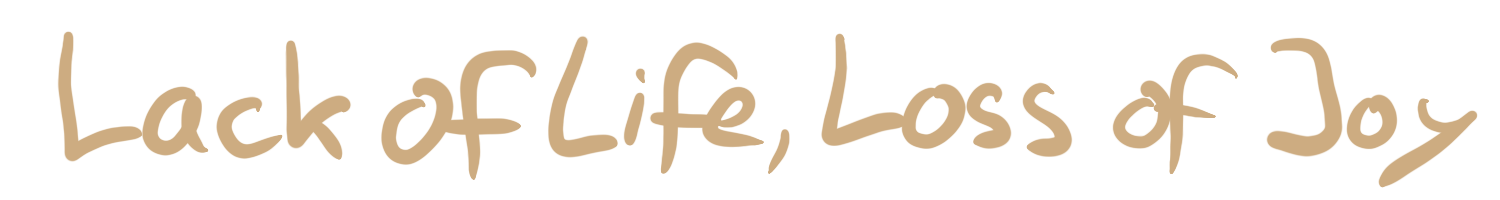
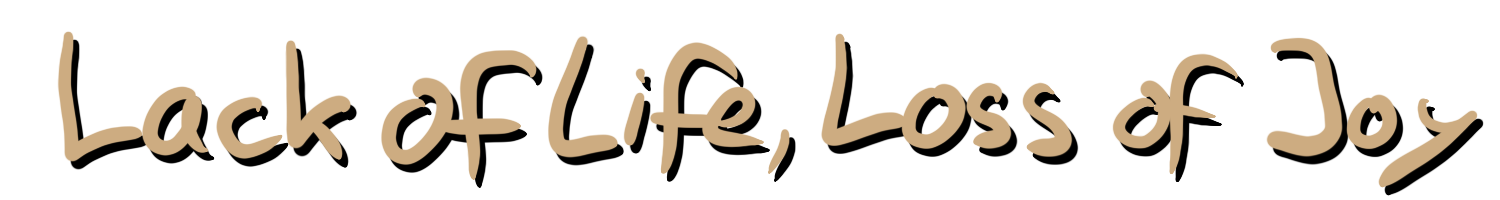
new images and small styling details

diff --git a/src/styles/global.css b/src/styles/global.css
@@ -1,12 +1,15 @@
 @import "https://unpkg.com/open-props";
 :root {
     --color-main-light: #00303f;
+    --color-main-light-transparent: hsl(194, 100%, 12%, 90%);
     --color-secondary-light: #cae4db;
+    --color-secondary-light-transparent: hsl(159, 33%, 84%, 90%);
     --color-bg-light: #f5f4f4;
-    --color-main-dark: ;
+    --color-bg-light-transparent: hsl(0deg, 4.76%, 95.9%, 90%);
     --color-font-light: white;
 
     --color-highlight: #cdac81;
+    --color-highlight-transparent: hsl(34, 43%, 65%, 90%);
 
     --font-sansserif: "Open Sans Variable", Helvetica, sans-serif;
     --font-serif: "Josefin Slab Variable", "Times New Roman", Times, serif;

diff --git a/src/content/config.ts b/src/content/config.ts
@@ -7,12 +7,9 @@ const blogCollection = defineCollection({
         description: z.string(),
         previewText: z.string(),
         publishDate: z.date(),
-        imgHeading: z.string(),
-        imgHeadingMobile: z.string(),
-        imgDoodle: z.string(),
-        imgDoodleMobile: z.string(),
-        imgDate: z.string(),
-        imgDateMobile: z.string(),
+        imgHeader: z.string(),
+        imgHeaderMobile: z.string(),
+        imgNotes: z.string(),
         imgCallToAction: z.string(),
         imgCallToActionHover: z.string(),
         imgCallToActionMobile: z.string(),

diff --git a/src/content/posts/lack-of-life-loss-of-joy.md b/src/content/posts/lack-of-life-loss-of-joy.md
@@ -4,15 +4,12 @@ title: Lack of Life, Loss of Joy
 description: A writer's personal and systemic perspective on the German film industry
 previewText: "<p>Life is simple when you are writing.</p><p>You sit down with pen and paper and laptop and then you just put one word down and another and another. Life is not simple when you are a writer, though. And it is unbearably difficult when you’re a talented screenwriter in Germany.</p><p>You see, we have it all. The funding, the education, the technical knowledge. We have a solid infrastructure and a social security net. We should be making great movies and sometimes we do.</p><p>But mostly we don’t.</p>"
 publishDate: 2024-06-23
-imgHeading: "/assets/lack-of-life-loss-of-joy/lack-of-life-loss-of-joy-header.png"
-imgHeadingMobile: "/assets/lack-of-life-loss-of-joy/lack-of-life-loss-of-joy-header-mobile.png"
-imgDoodle: "/assets/lack-of-life-loss-of-joy/lack-of-life-loss-of-joy-doodle.png"
-imgDoodleMobile: "/assets/lack-of-life-loss-of-joy/lack-of-life-loss-of-joy-doodle-mobile.png"
-imgDate: "/assets/lack-of-life-loss-of-joy/lack-of-life-loss-of-joy-date.png"
-imgDateMobile: "/assets/lack-of-life-loss-of-joy/lack-of-life-loss-of-joy-date-mobile.png"
-imgCallToAction: "/assets/lack-of-life-loss-of-joy/lack-of-life-loss-of-joy-call-to-action.png"
-imgCallToActionHover: "/assets/lack-of-life-loss-of-joy/lack-of-life-loss-of-joy-call-to-action-hover.png"
-imgCallToActionMobile: "/assets/lack-of-life-loss-of-joy/lack-of-life-loss-of-joy-call-to-action-mobile.png"
+imgHeader: "/assets/lack-of-life-loss-of-joy/lack-of-life-loss-of-joy-header.png"
+imgHeaderMobile: "/assets/lack-of-life-loss-of-joy/lack-of-life-loss-of-joy-header-mobile.png"
+imgNotes: "/assets/lack-of-life-loss-of-joy/lack-of-life-loss-of-joy-notes.png"
+imgCallToAction: "/assets/lack-of-life-loss-of-joy/lack-of-life-loss-of-joy-cta.png"
+imgCallToActionHover: "/assets/lack-of-life-loss-of-joy/lack-of-life-loss-of-joy-cta-hover.png"
+imgCallToActionMobile: "/assets/lack-of-life-loss-of-joy/lack-of-life-loss-of-joy-cta-mobile.png"
 ---
 
 Life is simple when you are writing.
@@ -27,7 +24,7 @@ Even worse, we don’t even make bad movies. Bad movies can make you feel _somet
 
 German movies lack life.
 
-In a movie narrative this dramatic realisation might have cost me my joy in writing. But in real life it didn’t. Instead the joy quietly quit on me. It slowly faded out and then one day it was gone. I was sitting in front of my laptop, trying to piece together movie ideas and I couldn’t. 
+In a movie narrative this dramatic realisation might have cost me my joy in writing. But in real life it didn’t. Instead the joy quietly quit on me. It slowly faded out and then one day it was gone. I was sitting in front of my laptop, trying to piece together movie ideas and I couldn’t.
 
 This was not the lack of success. Yes, it sucked that no one was interested in my ideas, no one wanted to pay me to write. But that’s not why I lost my joy. Because writing itself was always joyful for me, independent of the outcome. So even without success, even before success, I always had writing and my joy for it. And now I had even lost that.
 
@@ -39,19 +36,19 @@ Let’s start with acknowledging this: I am failing. A whole industry is failing
 
 This is difficult. Because acknowledging failure goes to the core of our identity. I have to give up being a successful writer, the German film industry has to give up making successful movies. We have to give up who we want to be and acknowledge that we might never get there.
 
-I have never been good at admitting failure. Additional to the privilege of being white, male and from a stable household I have the privilege of being good at stuff. 
+I have never been good at admitting failure. Additional to the privilege of being white, male and from a stable household I have the privilege of being good at stuff.
 
-I learned reading and writing at the age of four, I finished best of my class in school without much effort. I did fine in my physics bachelor’s degree, even though not being invested, and I got accepted at arguably one of the best film schools in the world on first try. I left film school with a decent, diverse portfolio of projects, written or even directed by me. 
+I learned reading and writing at the age of four, I finished best of my class in school without much effort. I did fine in my physics bachelor’s degree, even though not being invested, and I got accepted at arguably one of the best film schools in the world on first try. I left film school with a decent, diverse portfolio of projects, written or even directed by me.
 
 I had, or have, potential. I couldn’t fail. I was too good to fail. And yet I did.
 
-When the loss of joy hit me, I was already off-track. I was without a writing job for quite some time. It felt like I was running and still falling behind. Like I was sprinting at full speed in all the wrong directions. But, as every screenwriter knows, the next big project is only one great idea away. 
+When the loss of joy hit me, I was already off-track. I was without a writing job for quite some time. It felt like I was running and still falling behind. Like I was sprinting at full speed in all the wrong directions. But, as every screenwriter knows, the next big project is only one great idea away.
 
 Right?
 
-Right. So there I was, finally getting back on track. My agent told me she needed new ideas, so I wanted to create some fun one-pagers. Designing the layout myself, making it enjoyable to look at and easy to grasp the core of my idea. Maybe the stories wouldn’t sell but it would gain some attention and would put me back on the table as an interesting writer. 
+Right. So there I was, finally getting back on track. My agent told me she needed new ideas, so I wanted to create some fun one-pagers. Designing the layout myself, making it enjoyable to look at and easy to grasp the core of my idea. Maybe the stories wouldn’t sell but it would gain some attention and would put me back on the table as an interesting writer.
 
-Creating these documents was actually a pretty good plan. And yet I couldn’t do it. I was playing around with the page layout instead of working on the stories. And then I stopped doing that. I started feeling numb, then I started feeling anxious about feeling numb and then I started feeling numb again to not feel anxious anymore. 
+Creating these documents was actually a pretty good plan. And yet I couldn’t do it. I was playing around with the page layout instead of working on the stories. And then I stopped doing that. I started feeling numb, then I started feeling anxious about feeling numb and then I started feeling numb again to not feel anxious anymore.
 
 I was a bad writer. I was a bad artist.
 
@@ -63,9 +60,9 @@ I never asked myself: Why do I want this? What is success? Why am I afraid of fa
 
 And the market never told me: We don’t know what we want. We are afraid. We are failing and we don’t know why.
 
-This isn’t a new insight, a new problem. But everyone has a different answer. Everyone has someone else to blame. I am guilty of this myself. 
+This isn’t a new insight, a new problem. But everyone has a different answer. Everyone has someone else to blame. I am guilty of this myself.
 
-I blamed the producers, the network executives, the directors. Other writers who accept bad conditions instead of saying no. I blamed the markets and capitalism. Netflix and Amazon and Tiktok and Disney and how they turn art into content. And all of it is true. 
+I blamed the producers, the network executives, the directors. Other writers who accept bad conditions instead of saying no. I blamed the markets and capitalism. Netflix and Amazon and Tiktok and Disney and how they turn art into content. And all of it is true.
 
 Yet none of it goes deep enough. And blaming others doesn’t make the pain go away. It makes it worse. Joyless thoughts create joyless minds and joyless people.
 
@@ -75,13 +72,13 @@ So, what is the life I am talking about? Let’s distract ourselves from our emo
 
 ## What I talk about when I talk about life
 
-Alexander was an architect. That is what he thought about and wrote about. And yet “The Nature of Order”, the book that I will be referencing, is about so much more. It might be one of the most profound books on art ever written. 
+Alexander was an architect. That is what he thought about and wrote about. And yet “The Nature of Order”, the book that I will be referencing, is about so much more. It might be one of the most profound books on art ever written.
 
-It is about how beautiful things are created. Things that live. Things that bring us joy and not in a fulfilling-desire-kind-a-way but in a harmonious-and-simple-kind-a-way. Things that touch us deeply. 
+It is about how beautiful things are created. Things that live. Things that bring us joy and not in a fulfilling-desire-kind-a-way but in a harmonious-and-simple-kind-a-way. Things that touch us deeply.
 
 We all know this feeling that he is talking about here. We might have experienced it somewhere else, in moments of friendship, moments in nature, a piece of art that moves us, makes us want to smile or cry, even if we suppress it. It is hard to define and to study but Alexander tries to do it anyway.
 
-He argues that everything has a certain amount of life in it. This doesn’t mean organic life or consciousness or soul or whatever spiritual equivalent you might come up with (although Alexander goes deeper into this in the last volume of his book). For our purpose it is simply an attribute that is linked to the structure of a thing and hence to how much beauty or profoundness we see in it. 
+He argues that everything has a certain amount of life in it. This doesn’t mean organic life or consciousness or soul or whatever spiritual equivalent you might come up with (although Alexander goes deeper into this in the last volume of his book). For our purpose it is simply an attribute that is linked to the structure of a thing and hence to how much beauty or profoundness we see in it.
 
 Go out into the city and look at the buildings. You will find that certain buildings (often times older ones) evoke a deeper feeling in you than others. As an interesting example: google ‘HFF Munich’ (my former film school) and you will find a building that has very little life. Funny how that works.
 
@@ -89,15 +86,15 @@ Alexander goes deep on identifying different patterns that living structures see
 
 There are two main takeaways that are important for us, though.
 
-First: life in art is a real and measurable thing. It is not a matter of personal opinion. You can love a Marvel movie but it will still have less life than a small personal movie like ‘Aftersun’. Or like ‘Oppenheimer’ to compare it with a different big budget blockbuster. 
+First: life in art is a real and measurable thing. It is not a matter of personal opinion. You can love a Marvel movie but it will still have less life than a small personal movie like ‘Aftersun’. Or like ‘Oppenheimer’ to compare it with a different big budget blockbuster.
 
 So, my observation that German movies lack life should be measurable with actual studies. Although, I think most of us can feel it to be true without further proof.
 
 And second: there are ways to create things that have life and we can learn them. Especially we as creatives tend to like the idea of the visionary artist: Every Paul Thomas Anderson movie is a masterpiece because PTA is a genius. There is this black mystery box that ideas go in and a great piece of art comes out. There is also the opposing idea that art is simply hard work. Just learn the tools of the trade and then climb up the ladder. Creating art is just another hustle.
 
-Both of these ideas are not completely wrong but also they are. They don’t go deep enough. 
+Both of these ideas are not completely wrong but also they are. They don’t go deep enough.
 
-What makes Alexander’s ideas so profound is that he doesn’t start with art. He looks at matter itself. At the universe. At nature. 
+What makes Alexander’s ideas so profound is that he doesn’t start with art. He looks at matter itself. At the universe. At nature.
 
 Because nature is very good at creating stuff that has life. It has billions of years more experience than us. So how does nature create the calm scenery of the seaside, the inspiring colours of a blooming meadow?
 
@@ -105,21 +102,21 @@ We will get to that but first I want to take a look at how German screenplays ar
 
 ## Screenplays made in Germany
 
-Let’s start with one way that is specific to the German system: screenplay funding. (Almost) every state in Germany has funding and there are a few national options as well. 
+Let’s start with one way that is specific to the German system: screenplay funding. (Almost) every state in Germany has funding and there are a few national options as well.
 
-Here in Bavaria even first time writers without a credit can apply. You will get 25,000 Euro which is a decent amount of money. It can carry you for a bit even in a fairly expensive city like Munich. 
+Here in Bavaria even first time writers without a credit can apply. You will get 25,000 Euro which is a decent amount of money. It can carry you for a bit even in a fairly expensive city like Munich.
 
 There is a catch, though. There always is. For your application you have to write a twenty-page summary of your story, called a _Treatment_.
 
-This makes sense, right? The funding committee needs to know that they are investing in a good story by whatever standards they have. What better way to prove that than to give a detailed summary. Well. Not quite. 
+This makes sense, right? The funding committee needs to know that they are investing in a good story by whatever standards they have. What better way to prove that than to give a detailed summary. Well. Not quite.
 
 I hated writing these _Treatments_ and I don’t know any writer who sincerely likes it. It actively works against writing a great story. Understanding this is the key, I believe, to why German movies don’t have life.
 
-First: this is a lot of work if you want it to be good. I applied two times and it took me about two months each, basically full-time. It might be only twenty pages but you have to figure out the whole story. 
+First: this is a lot of work if you want it to be good. I applied two times and it took me about two months each, basically full-time. It might be only twenty pages but you have to figure out the whole story.
 
 You are also not getting paid for this work. It is a risk you have to take. And it is a risk that doesn’t pay out most of the time. Never did for me. So, you have to be in a privileged position to write this _Treatment_. Or work in your free time. Pick your poison.
 
-There is a deeper issue, though: figuring out the story in this twenty page format is impossible. You need to let your characters talk and act in scenes to get to know them. You need to try out different endings until you find the one that is right. 
+There is a deeper issue, though: figuring out the story in this twenty page format is impossible. You need to let your characters talk and act in scenes to get to know them. You need to try out different endings until you find the one that is right.
 
 A screenplay doesn’t consist of plot or characters. It consists of scenes from which the plot and the characters emerge. If you can’t write these scenes you can’t figure out what the screenplay is. Kind of obvious, one might think.
 
@@ -129,7 +126,7 @@ As a little side note on how I use these terms: _plot_ is what happens in the mo
 
 Now for the last and most important point: This _Treatment_, this twenty-page-summary, maybe it’s meant as a guideline, only a stepping stone, a part of the process. But it’s not.
 
-Even though it is treated like a substitute for a screenplay, it is something completely different. Writing it is very different from writing a screenplay. We change our process. We have to think differently, compose our story differently. And we do that because it is its own product. 
+Even though it is treated like a substitute for a screenplay, it is something completely different. Writing it is very different from writing a screenplay. We change our process. We have to think differently, compose our story differently. And we do that because it is its own product.
 
 It is a sales document. We don’t want to find the best story. We want to find the story document that sells the best. This is a subtle but huge difference.
 
@@ -137,13 +134,13 @@ And even though I like giving capitalism a hard time: the main issue is not that
 
 And here we get back to Alexander and the creation of living things.
 
-Because Alexander makes a very important point: the difference between stuff that is _generated_ and stuff that is _fabricated_. Generated is a loaded term in the age of AI, so let me choose a different wording: it is about process-oriented creation versus outcome-oriented creation. 
+Because Alexander makes a very important point: the difference between stuff that is _generated_ and stuff that is _fabricated_. Generated is a loaded term in the age of AI, so let me choose a different wording: it is about process-oriented creation versus outcome-oriented creation.
 
 Alexander argues that modern buildings don’t have life because they are fabricated, they stem from an outcome-oriented process. The way they are built doesn’t allow the life to evolve because every decision is planned far ahead, no matter how well it will work when actually executed. Every decision wants to control the outcome, making everything inflexible and impersonal.
 
-It is the same for movies. There is only one way of writing a screenplay. And that is by writing a screenplay. 
+It is the same for movies. There is only one way of writing a screenplay. And that is by writing a screenplay.
 
-We all have a different process, sure. Maybe your process includes writing a twenty-page-long sales document. I doubt it but it still doesn’t change the point: the personality of a screenplay arises in the specific process of writing it. 
+We all have a different process, sure. Maybe your process includes writing a twenty-page-long sales document. I doubt it but it still doesn’t change the point: the personality of a screenplay arises in the specific process of writing it.
 
 The life unfolds in the process, how Alexander puts it.
 
@@ -153,35 +150,35 @@ This is what Alexander understood and this is what we need to learn.
 
 ## Process in the Age of Industrialism
 
-We are not only writing sales documents when applying for screenplay funding. Here in Germany we have to do this constantly. 
+We are not only writing sales documents when applying for screenplay funding. Here in Germany we have to do this constantly.
 
-First there is the _idea paper_, maybe one page, still manageable. Then the _Exposé_, about five pages, getting more painful. Then the _Treatment_, 10-20 pages, the most hated document. No one wants to write it and no one wants to read it. Sometimes there is a _Bildertreatment_, the structure of a screenplay but the scenes are written in prose, which is at least somewhat useful. 
+First there is the _idea paper_, maybe one page, still manageable. Then the _Exposé_, about five pages, getting more painful. Then the _Treatment_, 10-20 pages, the most hated document. No one wants to write it and no one wants to read it. Sometimes there is a _Bildertreatment_, the structure of a screenplay but the scenes are written in prose, which is at least somewhat useful.
 
 And finally even the screenplay is a sales document: you need it to apply for production funding or to convince the network executives.
 
 The road to development hell is paved with good sales documents.
 
-And now, for a brave moment, consider the making of the actual movie: After years of developing sales documents suddenly there is funding. The movie has to be shot _now_ (with a lot of exclamation marks) before funding expires. But the context has changed, the cast, the director, the locations, probably even the story because it was rewritten to fit exactly the need of a certain network or funding committee. 
+And now, for a brave moment, consider the making of the actual movie: After years of developing sales documents suddenly there is funding. The movie has to be shot _now_ (with a lot of exclamation marks) before funding expires. But the context has changed, the cast, the director, the locations, probably even the story because it was rewritten to fit exactly the need of a certain network or funding committee.
 
 And so the shoot becomes the line-to-screen-translation of a sales document that has the personality of everyone’s favourite color mixed together (somewhat greyish-brown) and the flexibility of the screenwriter’s backbone (none). That screenwriter who is already gone, by the way, because nobody needs them because we have their script, right?
 
-Yeah. It’s a mess. 
+Yeah. It’s a mess.
 
-And the worst thing: this is nobody’s fault or maybe everybody’s fault. It is a system that is fundamentally built in a wrong way. It is built on the desire to control the outcome. It is built on the fear of failing. We have adapted this from other industries. And controlling each part of the process makes sense when you are building a safe car or a precise microchip. 
+And the worst thing: this is nobody’s fault or maybe everybody’s fault. It is a system that is fundamentally built in a wrong way. It is built on the desire to control the outcome. It is built on the fear of failing. We have adapted this from other industries. And controlling each part of the process makes sense when you are building a safe car or a precise microchip.
 
 But art should be different, art should be unsafe and imprecise and how is this not obvious?
 
-This is the essence of Alexander’s writing. To create something beautiful we have to take one step at the time, trust the process, and follow the life. This might sound esoteric or random. But it doesn’t mean that we do whatever we want. Or simply throw a dart at the word cloud. 
+This is the essence of Alexander’s writing. To create something beautiful we have to take one step at the time, trust the process, and follow the life. This might sound esoteric or random. But it doesn’t mean that we do whatever we want. Or simply throw a dart at the word cloud.
 
 It means that beautiful, interesting, deep stories cannot be fabricated, they arise from a process that we can learn (and that many writers intuitively learn by simply writing a lot). And following the process, following the life, leads to joy.
 
-Because there is a lot of joy in this industry. It can be found in all the small moments. In the moments of friendship, of creativity, of authenticity. All the moments that are deeply felt, how Alexander would put it. 
+Because there is a lot of joy in this industry. It can be found in all the small moments. In the moments of friendship, of creativity, of authenticity. All the moments that are deeply felt, how Alexander would put it.
 
 There is a reason we are doing this. And it is time that we acknowledge what _it_ actually is. Where our values lie. What this is about. The joy is found in the process. The life is found in the process. And the process is simple, step by step, looking to create the best possible solution under the circumstances.
 
-Simple doesn’t mean easy. Following the process needs practice. You need to learn the tools. You need to make a lot of decisions and a lot of mistakes to learn what the process needs. 
+Simple doesn’t mean easy. Following the process needs practice. You need to learn the tools. You need to make a lot of decisions and a lot of mistakes to learn what the process needs.
 
-But again, when I talk about joy, I don’t mean pleasure. Writing can bring that, sure, but pleasure will come and go. Joy will come and stay, even when the writing is difficult. 
+But again, when I talk about joy, I don’t mean pleasure. Writing can bring that, sure, but pleasure will come and go. Joy will come and stay, even when the writing is difficult.
 
 There is no writing block only writer’s block.
 
@@ -189,15 +186,15 @@ It’s difficult to believe that it can be this simple. I still don’t trust it
 
 So let me dream, just for a moment, about a process-oriented film industry.
 
-An industry where a sales document is not a screenplay and a screenplay is not the movie. Where the screenplay is our main communication tool, the way we screenwriters get the movie out of our head into the heads of other people. 
+An industry where a sales document is not a screenplay and a screenplay is not the movie. Where the screenplay is our main communication tool, the way we screenwriters get the movie out of our head into the heads of other people.
 
-In a process-oriented industry we have to learn how to do this. How to communicate properly with the words we choose. This is not only about character and story, remember, it is about feeling, about mood, about soul. About life. 
+In a process-oriented industry we have to learn how to do this. How to communicate properly with the words we choose. This is not only about character and story, remember, it is about feeling, about mood, about soul. About life.
 
 And everyone else has to learn how to read screenplays. How to extract what is important to their role but also to extract what feeling it evokes in them. We have to learn to be authentic in our writing and in our reading.
 
 So, when writing, when reading, we will listen to the others, to the context, to all the tools we learned and especially to ourselves. We will decide each and every moment what the next steps will be, considering our values and the life in our story. And then we will follow this process, step by step.
 
-We will discover that the screenplay format is not enough for communicating our ideas. We need to find more ways and they are already out there. Trailers, images from other movies, test scenes, music, short stories, small models made of wood and paper, table reads, simply just talking about it. 
+We will discover that the screenplay format is not enough for communicating our ideas. We need to find more ways and they are already out there. Trailers, images from other movies, test scenes, music, short stories, small models made of wood and paper, table reads, simply just talking about it.
 
 All of this and so much more can be part of our toolbox. We will find that following the writing process will eventually evolve into making the movie. And obviously, real world concerns are part of this. Allocating the production budget is part of it, bringing the movie to the audience is part of it. All of these concerns will not force themselves onto the process but they will be an integral part of it.
 
@@ -205,23 +202,23 @@ Is that too much to ask? For now, probably, yes. But one can dream.
 
 ## Letting go
 
-For now let me give you a personal answer to the question what we need to do. And it frightens me to the core: 
+For now let me give you a personal answer to the question what we need to do. And it frightens me to the core:
 
 We have to let go.
 
 Let go of getting rich by making movies. Let go of wowing the audience. Let go of winning the Oscar or whatever award suits our imagined acceptance speech. We have to let go of pleasing the critics. We have to let go of having a career (whatever that means). Let go of doing this and only this with our lives. Let go of defining our self-value by the outcome of our projects. We have to let go and trust the process.
 
-I don’t like this at all. My mind tells me that I am wrong or that something is missing. That I am not considering this or that. That we can’t simply change how we do stuff. That the system is built this way because it makes sense. 
+I don’t like this at all. My mind tells me that I am wrong or that something is missing. That I am not considering this or that. That we can’t simply change how we do stuff. That the system is built this way because it makes sense.
 
 And I don’t blame my mind for being afraid. Letting go of who we think we are and who we think we want to be is the hardest thing we can do.
 
-So I come back to this: I’m not letting go of writing. I am letting go of having success as a writer because I cannot control it. I can only control my process. The actions I take every day. The words I choose to fill my pages with. 
+So I come back to this: I’m not letting go of writing. I am letting go of having success as a writer because I cannot control it. I can only control my process. The actions I take every day. The words I choose to fill my pages with.
 
 And there it is, the life. Right there. It is not something I write towards, it is the writing itself. It is the process.
 
-I am still afraid, every day. What if it won’t work. What if I’m wrong. What if I am failing again. What if. There seems to be a bottomless pit beneath me, a dark hole waiting to swallow me and my ideas, my creativity, my self-worth, my identity. 
+I am still afraid, every day. What if it won’t work. What if I’m wrong. What if I am failing again. What if. There seems to be a bottomless pit beneath me, a dark hole waiting to swallow me and my ideas, my creativity, my self-worth, my identity.
 
-And yet, when I close my eyes. When I let the fear be what it is and call it by its name. When I stop overthinking and planning and plotting and when I start trusting the process. When everything is calm and simple. 
+And yet, when I close my eyes. When I let the fear be what it is and call it by its name. When I stop overthinking and planning and plotting and when I start trusting the process. When everything is calm and simple.
 
 Then I can feel the life. I can feel the joy. And I want to believe that letting go will be worth it.
 
